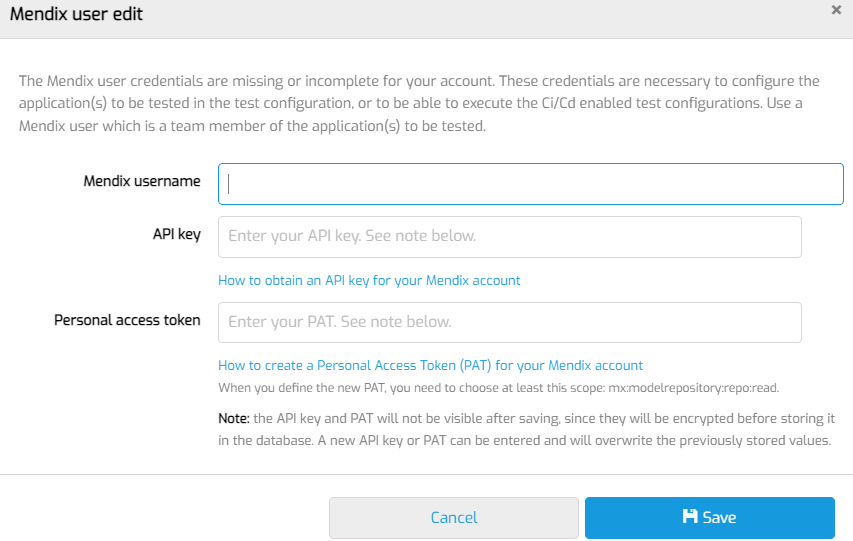
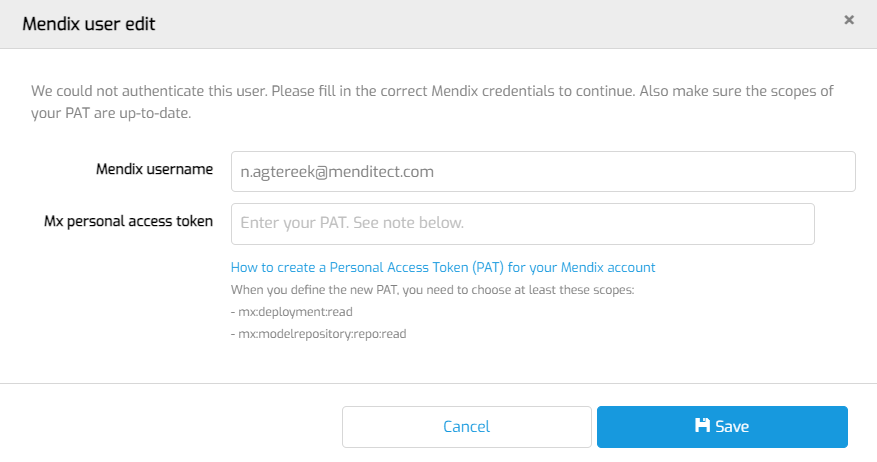
api key removed

diff --git a/additional/01-howtos/access-mendix-model.md b/additional/01-howtos/access-mendix-model.md
@@ -3,22 +3,20 @@
 To access Mendix projects, the user who logs in to MTA must be linked to a Mendix user.
 First time you login as a Tester, you will be provided a page where you can enter the necessary information to create this link.
 
-## API key and PAT
+## Personal access token
 
-An API key and Personal Access Token (PAT) need to be created to make communication possible with MTA and the Mendix platform.<br/>Make sure to store both in a password manager after creation. 
+A Personal Access Token (PAT) needs to be created to make communication possible with MTA and the Mendix platform.<br/>Make sure to store it in a password manager after creation. 
 
-Create your PAT and personal API key in your Mendix account. Go to:
-- https://user-settings.mendix.com/link/developersettings
+### Create your PAT in your Mendix account
+
+- Go to https://user-settings.mendix.com/link/developersettings
 - Click "New token". Name it 'MTA Test'.
-- Select only `mx:modelrepository:repo:read`
+- Select `mx:deployment:read`
+- Select `mx:modelrepository:repo:read`
 - Click "Create".
 - Store it in the password manager so you don't lose it.
-- Now click "Configure API Keys".
-- Create a new API key. Description 'MTA Test'.
-- Click "Generate API key".
-- Store it in the password manager so you don't lose it.
 
-### Enter API key and PAT in MTA
+### Enter PAT in MTA
 
 Login to MTA using the credentials provided by your MTA Manager.
 
@@ -27,8 +25,8 @@ The following popup will appear:
 ![Mendix credentials](images/mx-credentials.png)
 
 Now fill in the fields under 'Mendix credentials'
-- The Mendix account username (the email address you registered with);
-- API Key and PAT;
+- The Mendix account username (the email address you registered with at Mendix);
+- Your PAT;
 
 Then choose "Save".
 
@@ -40,4 +38,4 @@ To test if this step was successful, try to [Add an Application](run-first-test)
 ## Feedback?
 Missing anything? [Let us know!](mailto:support@menditect.com)
 
-Last updated 27 march 2023
+Last updated 19 February 2024

diff --git a/additional/01-howtos/cicd-config.md b/additional/01-howtos/cicd-config.md
@@ -19,7 +19,7 @@ In order to prepare MTA for integration with your CI/CD pipeline you need to cre
 This is the username and password you will connect with to the API. 
 
 - Save and logout.
-- Then, login with the CI/CD user, click the <i class="fal fa-user-circle"></i> user icon on the top right and [fill in the API key and PAT](access-mendix-model).
+- Then, login with the CI/CD user, click the <i class="fal fa-user-circle"></i> user icon on the top right and [fill in the PAT](access-mendix-model).
 - Finally, if you also want MTA to push CI/CD testrun results to your own API endpoint, enter the Endpoint and Secret key.<br/>Read more about it on the [CI/CD result handling page](cicd-result).
 
 ## Check App status
